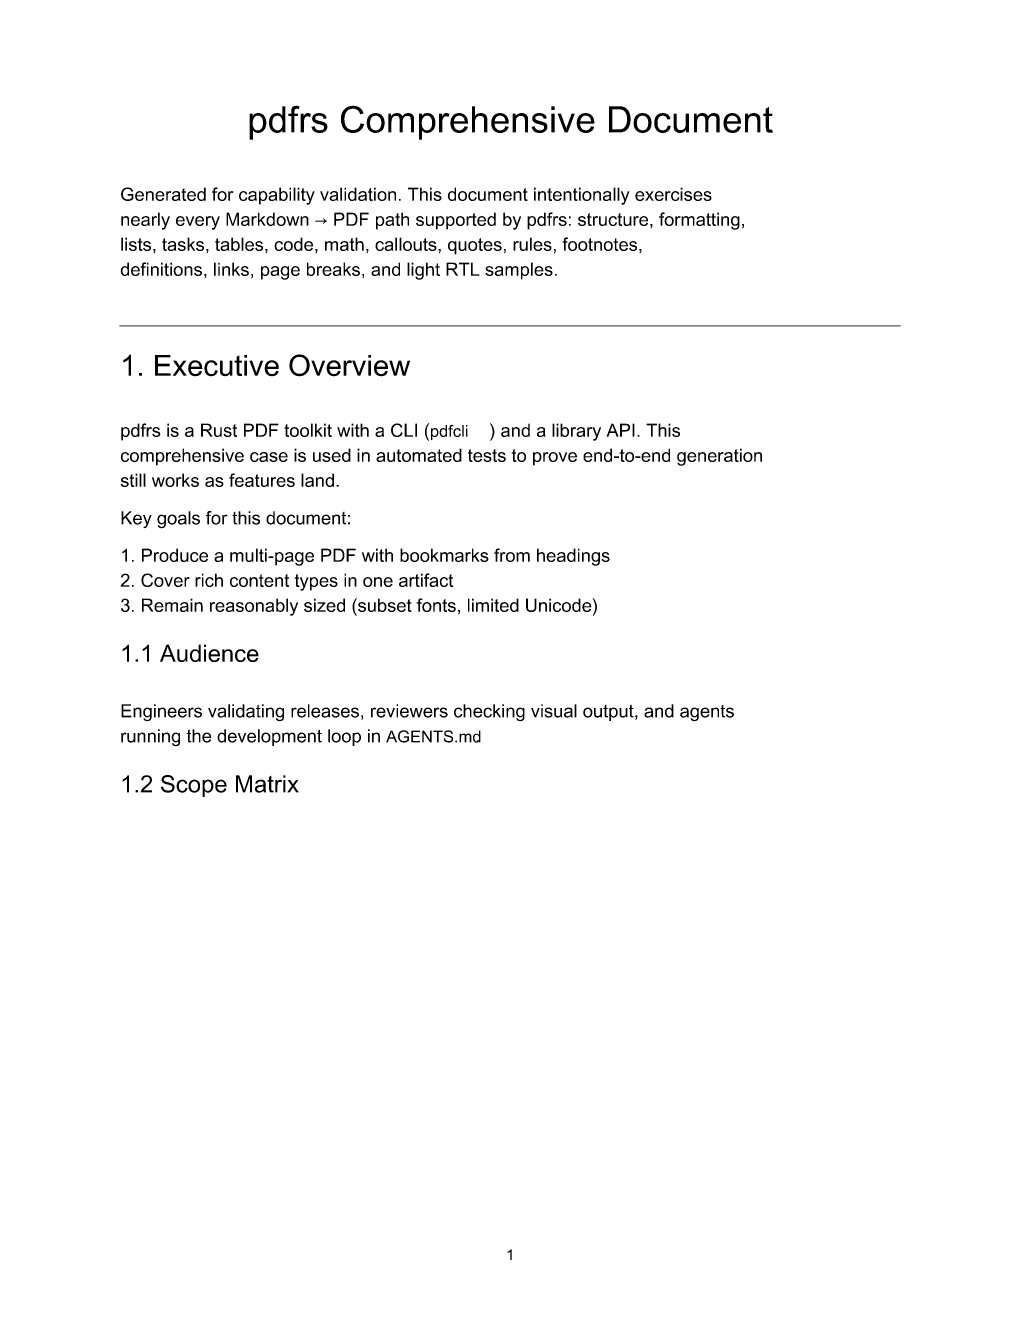
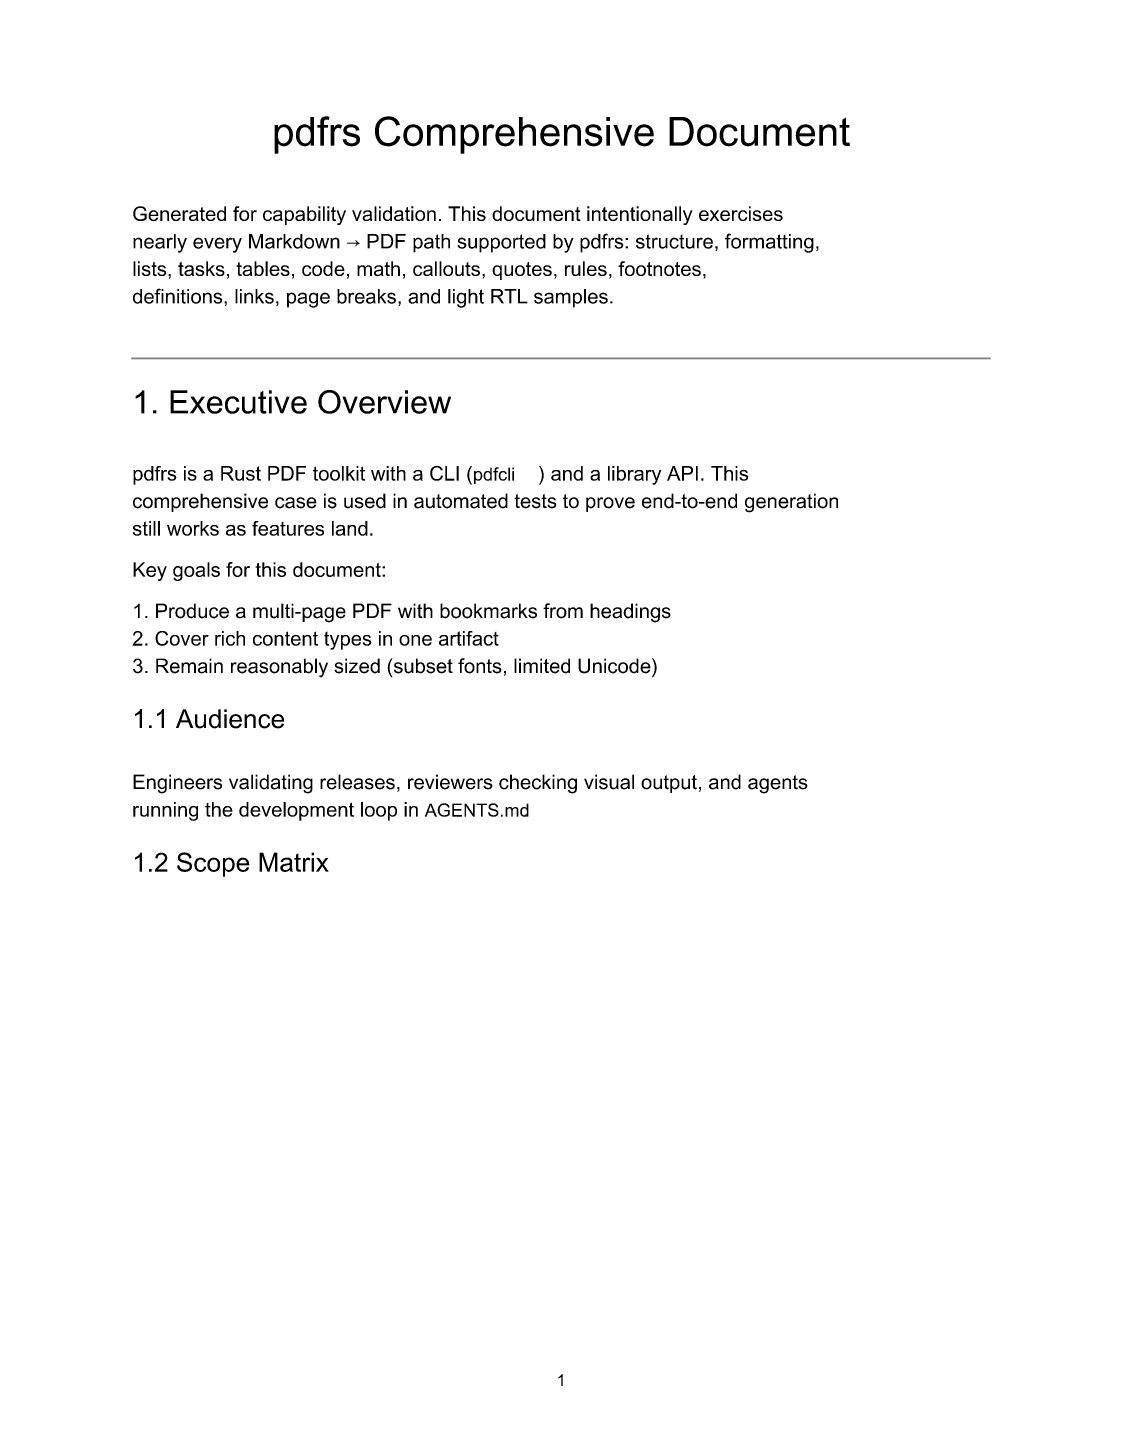
Expand README sample gallery across PDF capabilities.
Rasterize nine representative pages (tables, code, math, columns, charts, CJK) from comprehensive.pdf.

diff --git a/README.md b/README.md
@@ -23,19 +23,54 @@
 
 ### Sample output
 
-Full document: [**comprehensive.pdf**](comprehensive.pdf) (from [comprehensive_document.md](tests/fixtures/comprehensive_document.md)). Click a page to open the PDF in your viewer.
+One fixture drives the test suite: [**comprehensive.pdf**](comprehensive.pdf) ([source](tests/fixtures/comprehensive_document.md)). **Click any thumbnail** to open the full PDF.
 
-<p align="center">
-  <a href="comprehensive.pdf">
-    <img src="docs/assets/comprehensive-cover.png" alt="Cover page of the comprehensive.pdf sample" width="420"/>
-  </a>
-  &nbsp;&nbsp;
-  <a href="comprehensive.pdf">
-    <img src="docs/assets/comprehensive-interior.png" alt="Interior page of the comprehensive.pdf sample (charts, layout)" width="420"/>
-  </a>
-</p>
+<table>
+  <tr>
+    <td align="center" width="33%">
+      <a href="comprehensive.pdf"><img src="docs/assets/readme-preview-cover.png" alt="Title page and document outline" width="260"/></a><br/>
+      <sub>Cover · bookmarks</sub>
+    </td>
+    <td align="center" width="33%">
+      <a href="comprehensive.pdf"><img src="docs/assets/readme-preview-tables.png" alt="Tables with alignment" width="260"/></a><br/>
+      <sub>Tables · alignment</sub>
+    </td>
+    <td align="center" width="33%">
+      <a href="comprehensive.pdf"><img src="docs/assets/readme-preview-lists.png" alt="Nested lists and task checklist" width="260"/></a><br/>
+      <sub>Lists · tasks</sub>
+    </td>
+  </tr>
+  <tr>
+    <td align="center">
+      <a href="comprehensive.pdf"><img src="docs/assets/readme-preview-math-callouts.png" alt="Display math and callout blocks" width="260"/></a><br/>
+      <sub>Math · callouts</sub>
+    </td>
+    <td align="center">
+      <a href="comprehensive.pdf"><img src="docs/assets/readme-preview-columns.png" alt="Multi-column layout" width="260"/></a><br/>
+      <sub>Multi-column</sub>
+    </td>
+    <td align="center">
+      <a href="comprehensive.pdf"><img src="docs/assets/readme-preview-code.png" alt="Syntax-highlighted code blocks" width="260"/></a><br/>
+      <sub>Code · highlighting</sub>
+    </td>
+  </tr>
+  <tr>
+    <td align="center">
+      <a href="comprehensive.pdf"><img src="docs/assets/readme-preview-charts.png" alt="Bar chart from chart fence" width="260"/></a><br/>
+      <sub>Chart fences</sub>
+    </td>
+    <td align="center">
+      <a href="comprehensive.pdf"><img src="docs/assets/readme-preview-images.png" alt="Embedded images and vector chart figures" width="260"/></a><br/>
+      <sub>Images · figures</sub>
+    </td>
+    <td align="center">
+      <a href="comprehensive.pdf"><img src="docs/assets/readme-preview-cjk.png" alt="Chinese, Japanese, and Korean text" width="260"/></a><br/>
+      <sub>Unicode · CJK · embedded fonts</sub>
+    </td>
+  </tr>
+</table>
 
-Regenerate the PDF with `pdfcli generate-comprehensive` or `cargo test --test comprehensive_pdf`; refresh these thumbnails with `./scripts/refresh-readme-preview.sh`.
+Regenerate: `pdfcli generate-comprehensive` or `cargo test --test comprehensive_pdf`, then `./scripts/refresh-readme-preview.sh`.
 
 ### Trust at a glance
 
